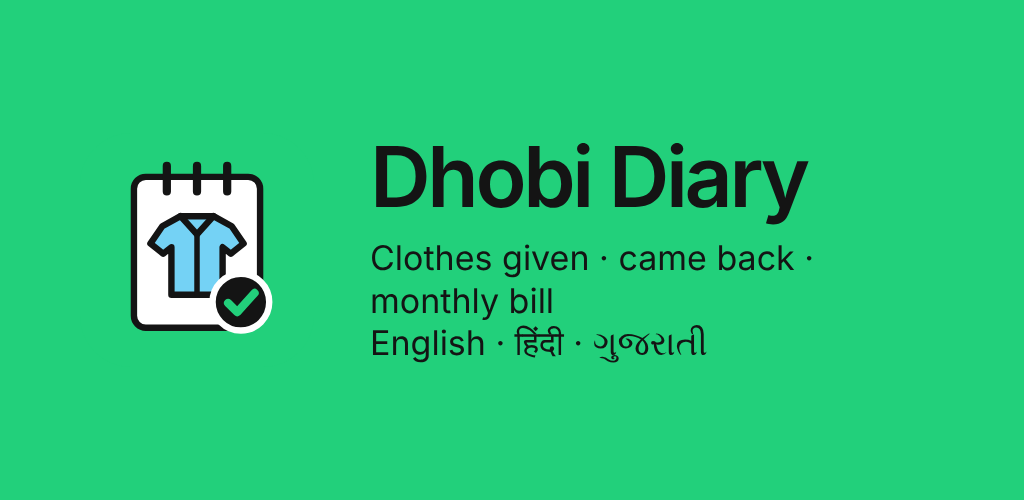
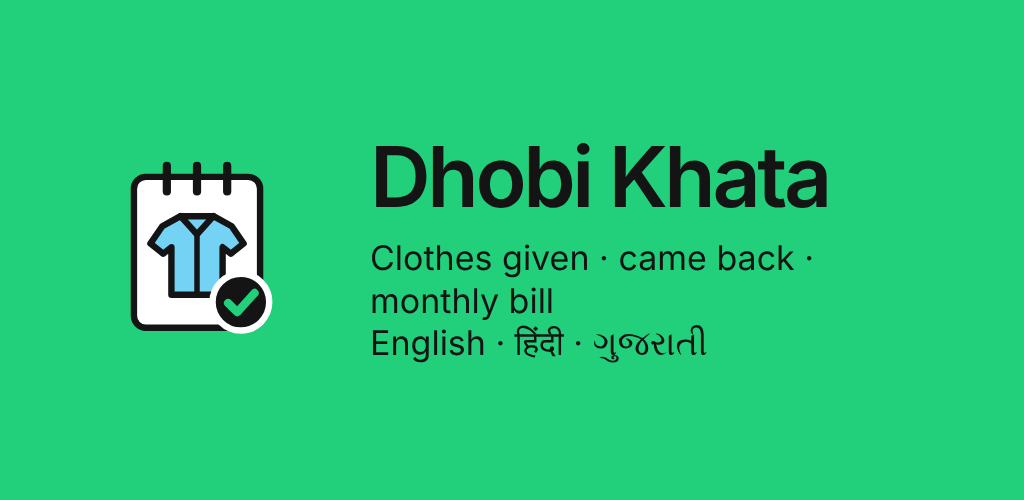
Rename app to Dhobi Khata (धोबी खाता · ધોબી ખાતું); app ID com.dhobikhata.app
- App name, welcome screen, share text, family wording and file names in all 3 languages
- Android/iOS display name and app ID (not yet uploaded, so safe to change)
- Store listing, screenshots, feature graphic, privacy policy, README
- Internal storage keys unchanged so existing data keeps working

Claude-Session: https://claude.ai/code/session_01Ju8CvxQqyEWndCsFqTJVoQ

Changed region(s): [[0.5938, 0.27, 0.8125, 0.45]]

diff --git a/dhobi-diary/src/i18n/hi.js b/dhobi-diary/src/i18n/hi.js
@@ -1,5 +1,5 @@
 export default {
-  appName: 'धोबी डायरी',
+  appName: 'धोबी खाता',
   dhobi: 'धोबी',
   s_iron: 'प्रेस', s_wash: 'धुलाई + प्रेस', s_dry: 'ड्राई क्लीन',
   i_shirt: 'शर्ट', i_tshirt: 'टी-शर्ट', i_pant: 'पैंट', i_jeans: 'जींस', i_kurta: 'कुर्ता', i_saree: 'साड़ी',
@@ -30,7 +30,7 @@ export default {
   shareBill: 'बिल भेजें', noBatchesMonth: 'इस महीने कोई कपड़े नहीं दिए।',
   billNote: 'गुम कपड़ों के पैसे नहीं जुड़ते। जो कपड़े अभी धोबी के पास हैं, उनके पूरे पैसे जुड़ते हैं।',
   billPendingLine: (n) => `${n} अभी धोबी के पास`, billMissingLine: (n) => `${n} गुम (पैसे नहीं)`,
-  shareHeader: (m) => `धोबी बिल — ${m}`, shareTotal: 'कुल', shareFooter: 'धोबी डायरी से भेजा गया',
+  shareHeader: (m) => `धोबी बिल — ${m}`, shareTotal: 'कुल', shareFooter: 'धोबी खाता ऐप से भेजा गया',
   dayGiven: 'कपड़े दिए', dayBack: 'वापस आए',
   historyTitle: 'पुराने गट्ठर', search: 'खोजें', all: 'सभी', month: 'महीना', anyMonth: 'कोई भी महीना', noResults: 'कुछ नहीं मिला।',
   ratesTitle: 'रेट', ratesSub: 'एक कपड़े का दाम (₹)। बदलने के लिए नंबर दबाएँ।', resetRates: 'आम रेट फिर से लगाएँ',
@@ -38,9 +38,9 @@ export default {
   moreTitle: 'सेटिंग', language: 'भाषा', grandma: 'दादी मोड', grandmaSub: 'सिर्फ़ देना, लेना और बिल। बहुत बड़े बटन।',
   dhobis: 'धोबी', rename: 'नाम बदलें',
   backup: 'बैकअप', exportCsv: 'Excel के लिए निकालें (CSV)', backupJson: 'बैकअप फ़ाइल सेव करें', restoreJson: 'बैकअप से वापस लाएँ',
-  restored: 'बैकअप वापस आ गया', badFile: 'यह धोबी डायरी की बैकअप फ़ाइल नहीं है।',
-  restoreConfirm: 'सब कुछ इस बैकअप से बदल दें?', restoreConfirmSub: 'अभी की डायरी बदल जाएगी। तुरंत बाद वापस ले सकते हैं।', restore: 'वापस लाएँ',
-  privacy: 'आपकी डायरी इसी फ़ोन में रहती है। परिवार की डायरी चालू हो तो वह परिवार की निजी ऑनलाइन कॉपी में भी रहती है।',
+  restored: 'बैकअप वापस आ गया', badFile: 'यह धोबी खाता की बैकअप फ़ाइल नहीं है।',
+  restoreConfirm: 'सब कुछ इस बैकअप से बदल दें?', restoreConfirmSub: 'अभी का खाता बदल जाएगा। तुरंत बाद वापस ले सकते हैं।', restore: 'वापस लाएँ',
+  privacy: 'आपका खाता इसी फ़ोन में रहता है। परिवार का खाता चालू हो तो वह परिवार की निजी ऑनलाइन कॉपी में भी रहता है।',
   exitGrandma: 'सेटिंग', back: 'पीछे', done: 'हो गया', ok: 'ठीक है', name: 'नाम',
   deleteDhobi: 'धोबी हटाएँ', deleteDhobiSub: 'इस धोबी के सारे गट्ठर भी हट जाएँगे।',
   family: 'परिवार के साथ शेयर',
@@ -48,14 +48,14 @@ export default {
   markVisit: 'हाज़िरी लगाएँ', visitMarked: 'हाज़िरी लग गई', visitsTitle: 'धोबी की हाज़िरी', time: 'समय', now: 'अभी',
   visitsCount: (n) => `${n} बार आया`, deleteVisit: 'यह हाज़िरी हटाएँ?', seeAll: 'सभी देखें',
   byName: (n) => `${n} ने`, givenBy: 'किसने दिए', receivedBy: 'किसने लिए',
-  familySub: 'घर के हर फ़ोन पर एक ही डायरी', createFamily: 'परिवार की डायरी शुरू करें', createFamilySub: 'आपको एक कोड मिलेगा, जो परिवार को देना है',
+  familySub: 'घर के हर फ़ोन पर एक ही खाता', createFamily: 'परिवार का खाता शुरू करें', createFamilySub: 'आपको एक कोड मिलेगा, जो परिवार को देना है',
   joinFamily: 'कोड से जुड़ें', joinFamilySub: 'घर में किसी ने पहले से शुरू की है', yourName: 'आपका नाम (जैसे मम्मी)',
   enterCode: 'परिवार का कोड', familyCode: 'परिवार का कोड', shareCode: 'कोड भेजें',
-  shareCodeText: (c) => `हमारी धोबी डायरी से जुड़ें 👕\nऐप खोलें → सेटिंग → परिवार → कोड से जुड़ें\nकोड: ${c}`,
-  members: 'लोग', you: 'आप', leaveFamily: 'परिवार की डायरी छोड़ें', leaveFamilySub: 'इस फ़ोन में कॉपी रहेगी, पर सिंक बंद हो जाएगा।', leave: 'छोड़ें',
-  synced: 'सिंक हो गया', offlineSync: 'ऑफ़लाइन · बाद में सिंक होगा', removedSync: 'परिवार की डायरी से हटा दिया गया', badCode: 'कोड नहीं मिला। जाँचकर फिर से डालें।',
+  shareCodeText: (c) => `हमारे धोबी खाता से जुड़ें 👕\nऐप खोलें → सेटिंग → परिवार → कोड से जुड़ें\nकोड: ${c}`,
+  members: 'लोग', you: 'आप', leaveFamily: 'परिवार का खाता छोड़ें', leaveFamilySub: 'इस फ़ोन में कॉपी रहेगी, पर सिंक बंद हो जाएगा।', leave: 'छोड़ें',
+  synced: 'सिंक हो गया', offlineSync: 'ऑफ़लाइन · बाद में सिंक होगा', removedSync: 'परिवार के खाते से हटा दिया गया', badCode: 'कोड नहीं मिला। जाँचकर फिर से डालें।',
   needInternet: 'जुड़ने के लिए इंटरनेट चाहिए। ऑनलाइन होकर फिर कोशिश करें।', familyNotSetUp: 'इस वर्ज़न में परिवार शेयर अभी चालू नहीं है।',
-  joined: 'परिवार की डायरी से जुड़ गए', created: 'परिवार की डायरी तैयार', connecting: 'जुड़ रहा है…', codeHint: 'यह कोड घर के सभी लोगों को दें',
+  joined: 'परिवार के खाते से जुड़ गए', created: 'परिवार का खाता तैयार', connecting: 'जुड़ रहा है…', codeHint: 'यह कोड घर के सभी लोगों को दें',
   people: (n) => `${n} लोग`, next: 'आगे',
   markedToday: 'आज धोबी आया', tapToMark: 'धोबी आए तो यहाँ दबाएँ', tapToSee: 'सभी हाज़िरी देखें',
   givenThisMonth: 'इस महीने दिए कपड़े', withDhobiNow: 'अभी धोबी के पास', tapIfCame: 'धोबी आज आया हो तो यहाँ दबाएँ', attendanceMarked: 'हाज़िरी लग गई',

diff --git a/dhobi-diary/src/i18n/gu.js b/dhobi-diary/src/i18n/gu.js
@@ -1,5 +1,5 @@
 export default {
-  appName: 'ધોબી ડાયરી',
+  appName: 'ધોબી ખાતું',
   dhobi: 'ધોબી',
   s_iron: 'ઇસ્ત્રી', s_wash: 'ધોલાઈ + ઇસ્ત્રી', s_dry: 'ડ્રાય ક્લીન',
   i_shirt: 'શર્ટ', i_tshirt: 'ટી-શર્ટ', i_pant: 'પેન્ટ', i_jeans: 'જીન્સ', i_kurta: 'કુર્તો', i_saree: 'સાડી',
@@ -30,7 +30,7 @@ export default {
   shareBill: 'બિલ મોકલો', noBatchesMonth: 'આ મહિને કોઈ કપડાં નથી આપ્યાં.',
   billNote: 'ખોવાયેલાં કપડાંના પૈસા નથી ગણાતા. જે કપડાં હજી ધોબી પાસે છે તેના પૂરા પૈસા ગણાય છે.',
   billPendingLine: (n) => `${n} હજી ધોબી પાસે`, billMissingLine: (n) => `${n} ખોવાયાં (પૈસા નહીં)`,
-  shareHeader: (m) => `ધોબી બિલ — ${m}`, shareTotal: 'કુલ', shareFooter: 'ધોબી ડાયરીથી મોકલ્યું',
+  shareHeader: (m) => `ધોબી બિલ — ${m}`, shareTotal: 'કુલ', shareFooter: 'ધોબી ખાતું એપથી મોકલ્યું',
   dayGiven: 'કપડાં આપ્યાં', dayBack: 'પાછાં આવ્યાં',
   historyTitle: 'જૂનાં પોટલાં', search: 'શોધો', all: 'બધાં', month: 'મહિનો', anyMonth: 'કોઈ પણ મહિનો', noResults: 'કંઈ મળ્યું નહીં.',
   ratesTitle: 'ભાવ', ratesSub: 'એક કપડાનો ભાવ (₹). બદલવા માટે નંબર દબાવો.', resetRates: 'સામાન્ય ભાવ ફરી મૂકો',
@@ -38,9 +38,9 @@ export default {
   moreTitle: 'સેટિંગ', language: 'ભાષા', grandma: 'બા મોડ', grandmaSub: 'ફક્ત આપવું, લેવું અને બિલ. ખૂબ મોટાં બટન.',
   dhobis: 'ધોબી', rename: 'નામ બદલો',
   backup: 'બેકઅપ', exportCsv: 'Excel માટે કાઢો (CSV)', backupJson: 'બેકઅપ ફાઇલ સેવ કરો', restoreJson: 'બેકઅપથી પાછું લાવો',
-  restored: 'બેકઅપ પાછું આવી ગયું', badFile: 'આ ધોબી ડાયરીની બેકઅપ ફાઇલ નથી.',
-  restoreConfirm: 'બધું આ બેકઅપથી બદલી દેવું છે?', restoreConfirmSub: 'હાલની ડાયરી બદલાઈ જશે. તરત પછી પાછું લઈ શકો છો.', restore: 'પાછું લાવો',
-  privacy: 'તમારી ડાયરી આ જ ફોનમાં રહે છે. પરિવારની ડાયરી ચાલુ હોય તો તે પરિવારની ખાનગી ઓનલાઇન કૉપીમાં પણ રહે છે.',
+  restored: 'બેકઅપ પાછું આવી ગયું', badFile: 'આ ધોબી ખાતાની બેકઅપ ફાઇલ નથી.',
+  restoreConfirm: 'બધું આ બેકઅપથી બદલી દેવું છે?', restoreConfirmSub: 'હાલનું ખાતું બદલાઈ જશે. તરત પછી પાછું લઈ શકો છો.', restore: 'પાછું લાવો',
+  privacy: 'તમારું ખાતું આ જ ફોનમાં રહે છે. પરિવારનું ખાતું ચાલુ હોય તો તે પરિવારની ખાનગી ઓનલાઇન કૉપીમાં પણ રહે છે.',
   exitGrandma: 'સેટિંગ', back: 'પાછળ', done: 'થઈ ગયું', ok: 'બરાબર', name: 'નામ',
   deleteDhobi: 'ધોબી કાઢી નાખો', deleteDhobiSub: 'આ ધોબીનાં બધાં પોટલાં પણ કાઢી નખાશે.',
   family: 'પરિવાર સાથે શેર',
@@ -48,14 +48,14 @@ export default {
   markVisit: 'હાજરી પૂરો', visitMarked: 'હાજરી પુરાઈ ગઈ', visitsTitle: 'ધોબીની હાજરી', time: 'સમય', now: 'હમણાં',
   visitsCount: (n) => `${n} વાર આવ્યો`, deleteVisit: 'આ હાજરી કાઢી નાખવી છે?', seeAll: 'બધું જુઓ',
   byName: (n) => `${n} દ્વારા`, givenBy: 'કોણે આપ્યાં', receivedBy: 'કોણે લીધાં',
-  familySub: 'ઘરના દરેક ફોનમાં એક જ ડાયરી', createFamily: 'પરિવારની ડાયરી શરૂ કરો', createFamilySub: 'તમને એક કોડ મળશે, જે પરિવારને આપવાનો છે',
+  familySub: 'ઘરના દરેક ફોનમાં એક જ ખાતું', createFamily: 'પરિવારનું ખાતું શરૂ કરો', createFamilySub: 'તમને એક કોડ મળશે, જે પરિવારને આપવાનો છે',
   joinFamily: 'કોડથી જોડાઓ', joinFamilySub: 'ઘરમાં કોઈએ પહેલેથી શરૂ કરી છે', yourName: 'તમારું નામ (જેમ કે મમ્મી)',
   enterCode: 'પરિવારનો કોડ', familyCode: 'પરિવારનો કોડ', shareCode: 'કોડ મોકલો',
-  shareCodeText: (c) => `અમારી ધોબી ડાયરીમાં જોડાઓ 👕\nએપ ખોલો → સેટિંગ → પરિવાર → કોડથી જોડાઓ\nકોડ: ${c}`,
-  members: 'લોકો', you: 'તમે', leaveFamily: 'પરિવારની ડાયરી છોડો', leaveFamilySub: 'આ ફોનમાં કૉપી રહેશે, પણ સિંક બંધ થશે.', leave: 'છોડો',
-  synced: 'સિંક થઈ ગયું', offlineSync: 'ઑફલાઇન · પછી સિંક થશે', removedSync: 'પરિવારની ડાયરીમાંથી કાઢી નખાયા', badCode: 'કોડ મળ્યો નહીં. તપાસીને ફરી નાખો.',
+  shareCodeText: (c) => `અમારા ધોબી ખાતામાં જોડાઓ 👕\nએપ ખોલો → સેટિંગ → પરિવાર → કોડથી જોડાઓ\nકોડ: ${c}`,
+  members: 'લોકો', you: 'તમે', leaveFamily: 'પરિવારનું ખાતું છોડો', leaveFamilySub: 'આ ફોનમાં કૉપી રહેશે, પણ સિંક બંધ થશે.', leave: 'છોડો',
+  synced: 'સિંક થઈ ગયું', offlineSync: 'ઑફલાઇન · પછી સિંક થશે', removedSync: 'પરિવારના ખાતામાંથી કાઢી નખાયા', badCode: 'કોડ મળ્યો નહીં. તપાસીને ફરી નાખો.',
   needInternet: 'જોડાવા માટે ઇન્ટરનેટ જોઈએ. ઓનલાઇન થઈને ફરી પ્રયત્ન કરો.', familyNotSetUp: 'આ વર્ઝનમાં પરિવાર શેર હજી ચાલુ નથી.',
-  joined: 'પરિવારની ડાયરીમાં જોડાઈ ગયા', created: 'પરિવારની ડાયરી તૈયાર', connecting: 'જોડાય છે…', codeHint: 'આ કોડ ઘરના બધાને આપો',
+  joined: 'પરિવારના ખાતામાં જોડાઈ ગયા', created: 'પરિવારનું ખાતું તૈયાર', connecting: 'જોડાય છે…', codeHint: 'આ કોડ ઘરના બધાને આપો',
   people: (n) => `${n} લોકો`, next: 'આગળ',
   markedToday: 'આજે ધોબી આવ્યો', tapToMark: 'ધોબી આવે ત્યારે અહીં દબાવો', tapToSee: 'બધી હાજરી જુઓ',
   givenThisMonth: 'આ મહિને આપેલાં કપડાં', withDhobiNow: 'હાલ ધોબી પાસે', tapIfCame: 'ધોબી આજે આવ્યો હોય તો અહીં દબાવો', attendanceMarked: 'હાજરી પુરાઈ ગઈ',

diff --git a/dhobi-diary/src/i18n/en.js b/dhobi-diary/src/i18n/en.js
@@ -1,5 +1,5 @@
 export default {
-  appName: 'Dhobi Diary',
+  appName: 'Dhobi Khata',
   dhobi: 'Dhobi',
   // services
   s_iron: 'Iron', s_wash: 'Wash + Iron', s_dry: 'Dry clean',
@@ -39,7 +39,7 @@ export default {
   shareBill: 'Share bill', noBatchesMonth: 'No clothes given this month.',
   billNote: 'Missing clothes are not charged. Clothes still with the dhobi are counted at full rate.',
   billPendingLine: (n) => `${n} still with dhobi`, billMissingLine: (n) => `${n} missing (not charged)`,
-  shareHeader: (m) => `Dhobi bill — ${m}`, shareTotal: 'Total', shareFooter: 'Sent from Dhobi Diary',
+  shareHeader: (m) => `Dhobi bill — ${m}`, shareTotal: 'Total', shareFooter: 'Sent from Dhobi Khata',
   dayGiven: 'Clothes given', dayBack: 'Came back',
   // history
   historyTitle: 'History', search: 'Search', all: 'All', month: 'Month', anyMonth: 'Any month', noResults: 'Nothing found.',
@@ -50,9 +50,9 @@ export default {
   moreTitle: 'Settings', language: 'Language', grandma: 'Grandma Mode', grandmaSub: 'Only Give, Receive and Bill. Extra large.',
   dhobis: 'Dhobis', rename: 'Rename',
   backup: 'Backup', exportCsv: 'Export for Excel (CSV)', backupJson: 'Save backup file', restoreJson: 'Restore from backup',
-  restored: 'Backup restored', badFile: 'This file is not a Dhobi Diary backup.',
-  restoreConfirm: 'Replace everything with this backup?', restoreConfirmSub: 'Your current diary will be replaced. You can undo right after.', restore: 'Restore',
-  privacy: 'Your diary stays on this phone. With a family diary, it is also kept in your family’s private online copy.',
+  restored: 'Backup restored', badFile: 'This file is not a Dhobi Khata backup.',
+  restoreConfirm: 'Replace everything with this backup?', restoreConfirmSub: 'Your current khata will be replaced. You can undo right after.', restore: 'Restore',
+  privacy: 'Your khata stays on this phone. With a family khata, it is also kept in your family’s private online copy.',
   exitGrandma: 'Settings', back: 'Back', done: 'Done', ok: 'OK', name: 'Name',
   deleteDhobi: 'Delete dhobi', deleteDhobiSub: 'All bundles of this dhobi will also be deleted.',
   family: 'Family sharing',
@@ -62,14 +62,14 @@ export default {
   visitsCount: (n) => `Came ${n} ${n === 1 ? 'time' : 'times'}`, deleteVisit: 'Delete this visit?', seeAll: 'See all',
   byName: (n) => `by ${n}`, givenBy: 'Given by', receivedBy: 'Received by',
   // family sharing
-  familySub: 'One diary on every phone in the house', createFamily: 'Start a family diary', createFamilySub: 'You get a code to give your family',
+  familySub: 'One khata on every phone in the house', createFamily: 'Start a family khata', createFamilySub: 'You get a code to give your family',
   joinFamily: 'Join with a code', joinFamilySub: 'Someone at home already started one', yourName: 'Your name (e.g. Mummy)',
   enterCode: 'Family code', familyCode: 'Family code', shareCode: 'Send code',
-  shareCodeText: (c) => `Join our Dhobi Diary 👕\nOpen the app → Settings → Family → Join with a code\nCode: ${c}`,
-  members: 'People', you: 'you', leaveFamily: 'Leave family diary', leaveFamilySub: 'This phone keeps a copy but stops syncing.', leave: 'Leave',
-  synced: 'Synced', offlineSync: 'Offline · will sync later', removedSync: 'Removed from family diary', badCode: 'Code not found. Check it and try again.',
+  shareCodeText: (c) => `Join our Dhobi Khata 👕\nOpen the app → Settings → Family → Join with a code\nCode: ${c}`,
+  members: 'People', you: 'you', leaveFamily: 'Leave family khata', leaveFamilySub: 'This phone keeps a copy but stops syncing.', leave: 'Leave',
+  synced: 'Synced', offlineSync: 'Offline · will sync later', removedSync: 'Removed from family khata', badCode: 'Code not found. Check it and try again.',
   needInternet: 'Needs internet to connect. Try again when online.', familyNotSetUp: 'Family sharing is not switched on in this version yet.',
-  joined: 'Joined the family diary', created: 'Family diary ready', connecting: 'Connecting…', codeHint: 'Give this code to everyone at home',
+  joined: 'Joined the family khata', created: 'Family khata ready', connecting: 'Connecting…', codeHint: 'Give this code to everyone at home',
   people: (n) => `${n} ${n === 1 ? 'person' : 'people'}`, next: 'Continue',
   markedToday: 'Dhobi came today', tapToMark: 'Tap here when the dhobi comes', tapToSee: 'see all visits',
   givenThisMonth: 'Clothes given this month', withDhobiNow: 'Currently with dhobi', tapIfCame: 'Tap here if the dhobi came today', attendanceMarked: 'Attendance marked',

diff --git a/dhobi-diary/src/screens/settings.js b/dhobi-diary/src/screens/settings.js
@@ -1,4 +1,4 @@
-// Settings: family diary, language, Grandma Mode, rates, dhobis, backup.
+// Settings: family khata, language, Grandma Mode, rates, dhobis, backup.
 import { screen, go, refresh, render, openSheet, closeSheet } from '../ui/router.js';
 import { t, LANGS, getLang, setLang } from '../i18n/index.js';
 import { I } from '../ui/icons.js';
@@ -125,8 +125,8 @@ screen('welcome', {
   view() {
     return `<main class="screen welcome">
       <div class="welcome-art">${I.bill}</div>
-      <h1 class="brand big">Dhobi Diary</h1>
-      <p class="welcome-sub">धोबी डायरी · ધોબી ડાયરી</p>
+      <h1 class="brand big">Dhobi Khata</h1>
+      <p class="welcome-sub">धोबी खाता · ધોબી ખાતું</p>
       <div class="stack">${LANGS.map((l) => `<button class="btn btn-outline btn-lang tap" data-act="pick" data-id="${l.id}" lang="${l.id}">${esc(l.label)}</button>`).join('')}</div>
     </main>`;
   },

diff --git a/dhobi-diary/public/privacy.html b/dhobi-diary/public/privacy.html
@@ -1,11 +1,11 @@
 <!doctype html>
 <html lang="en"><head><meta charset="utf-8"><meta name="viewport" content="width=device-width,initial-scale=1">
-<title>Dhobi Diary — Privacy Policy</title>
+<title>Dhobi Khata — Privacy Policy</title>
 <style>body{font-family:system-ui,sans-serif;max-width:640px;margin:32px auto;padding:0 16px;line-height:1.6;color:#141414;background:#F2F5F8}h1{font-size:1.6rem}</style></head>
 <body>
-<h1>Dhobi Diary — Privacy Policy</h1>
+<h1>Dhobi Khata — Privacy Policy</h1>
 <p><b>Last updated:</b> 25 November 2026</p>
-<p>Dhobi Diary works fully offline. It has no ads, no analytics and no passwords.</p>
+<p>Dhobi Khata works fully offline. It has no ads, no analytics and no passwords.</p>
 <ul>
   <li><b>What is stored:</b> the bundles of clothes you enter, dhobi visits (date and time), dhobi names, rates and your settings.</li>
   <li><b>Where:</b> on your phone, inside the app's private storage.</li>

diff --git a/dhobi-diary/src/features/backup.js b/dhobi-diary/src/features/backup.js
@@ -29,11 +29,11 @@ export function buildCSV({ itemName, serviceName, dhobiName, statusName }) {
   return '' + rows.map((r) => r.map(csvCell).join(',')).join('\n');
 }
 
-export const exportCSV = (names) => shareFile(`dhobi-diary-${today()}.csv`, buildCSV(names), 'text/csv');
+export const exportCSV = (names) => shareFile(`dhobi-khata-${today()}.csv`, buildCSV(names), 'text/csv');
 
 export function backupJSON() {
   const data = { app: 'dhobi-diary', exportedAt: new Date().toISOString(), ...exportData() };
-  return shareFile(`dhobi-diary-backup-${today()}.json`, JSON.stringify(data, null, 1), 'application/json');
+  return shareFile(`dhobi-khata-backup-${today()}.json`, JSON.stringify(data, null, 1), 'application/json');
 }
 
 /** Reads a file the user picks. Returns the parsed backup (not yet applied), or null if cancelled. */

diff --git a/dhobi-diary/index.html b/dhobi-diary/index.html
@@ -3,7 +3,7 @@
   <head>
     <meta charset="UTF-8" />
     <meta name="viewport" content="width=device-width, initial-scale=1, viewport-fit=cover" />
-    <title>Dhobi Diary</title>
+    <title>Dhobi Khata</title>
     <meta name="description" content="Track clothes given to the dhobi. Offline, free, no login." />
     <meta name="theme-color" content="#F2F5F8" />
     <link rel="manifest" href="/manifest.webmanifest" />

diff --git a/dhobi-diary/store/RELEASE.md b/dhobi-diary/store/RELEASE.md
@@ -1,9 +1,9 @@
-# Google Play release checklist — Dhobi Diary
+# Google Play release checklist — Dhobi Khata
 
 Tick these in order. ⏱ = waiting time you can't skip.
 
 ## A. Before building (once)
-- [ ] **App ID** in `capacitor.config.json` + `android/app/build.gradle` is final (now `com.dhobidiary.app`). It can never change after the first upload.
+- [ ] **App ID** in `capacitor.config.json` + `android/app/build.gradle` is final (now `com.dhobikhata.app`). It can never change after the first upload.
 - [ ] **Supabase** set up and keys pasted (README → "One-time Supabase setup").
 - [ ] **Support email** added in `public/privacy.html`.
 - [ ] **Privacy policy online:** in `dhobi-diary/` run `npx vercel` (log in, accept defaults, root = this folder). The policy is then at `https://<your-site>.vercel.app/privacy.html`.
@@ -18,7 +18,7 @@ Output: `android/app/release/app-release.aab`.
 For every later update: raise `versionCode` (1 → 2 → 3…) and `versionName` in `android/app/build.gradle`.
 
 ## C. Play Console (https://play.google.com/console, $25 once)
-1. **Create app** → name "Dhobi Diary", default language English (India), App, Free.
+1. **Create app** → name "Dhobi Khata", default language English (India), App, Free.
 2. **Store listing:** copy text from `store/listing.md`. Upload:
    - App icon: `store/icon-512.png`
    - Feature graphic: `store/feature-graphic-1024x500.png`

diff --git a/dhobi-diary/README.md b/dhobi-diary/README.md
@@ -1,4 +1,4 @@
-# Dhobi Diary 👕
+# Dhobi Khata 👕
 
 Replaces the paper diary families use to track clothes given to the dhobi.
 **Works offline · no passwords · free · English / हिंदी / ગુજરાતી · optional family sync**
@@ -14,7 +14,7 @@ Replaces the paper diary families use to track clothes given to the dhobi.
 | Copy latest code into both apps | `npm run app:sync` |
 | Re-make app icons from `public/icon.svg` | `npm run app:icons` |
 
-App ID: `com.dhobidiary.app` (in `capacitor.config.json`). **Pick your final ID before the first store upload — it can never change after.**
+App ID: `com.dhobikhata.app` (in `capacitor.config.json`). **Pick your final ID before the first store upload — it can never change after.**
 
 ## How the code is organised
 

diff --git a/dhobi-diary/store/listing.md b/dhobi-diary/store/listing.md
@@ -1,8 +1,8 @@
-# Store listing — Dhobi Diary (draft)
+# Store listing — Dhobi Khata (draft)
 
 ## App name (max 30)
 ```
-Dhobi Diary: Laundry Tracker
+Dhobi Khata: Laundry Tracker
 ```
 
 ## Short description (max 80)
